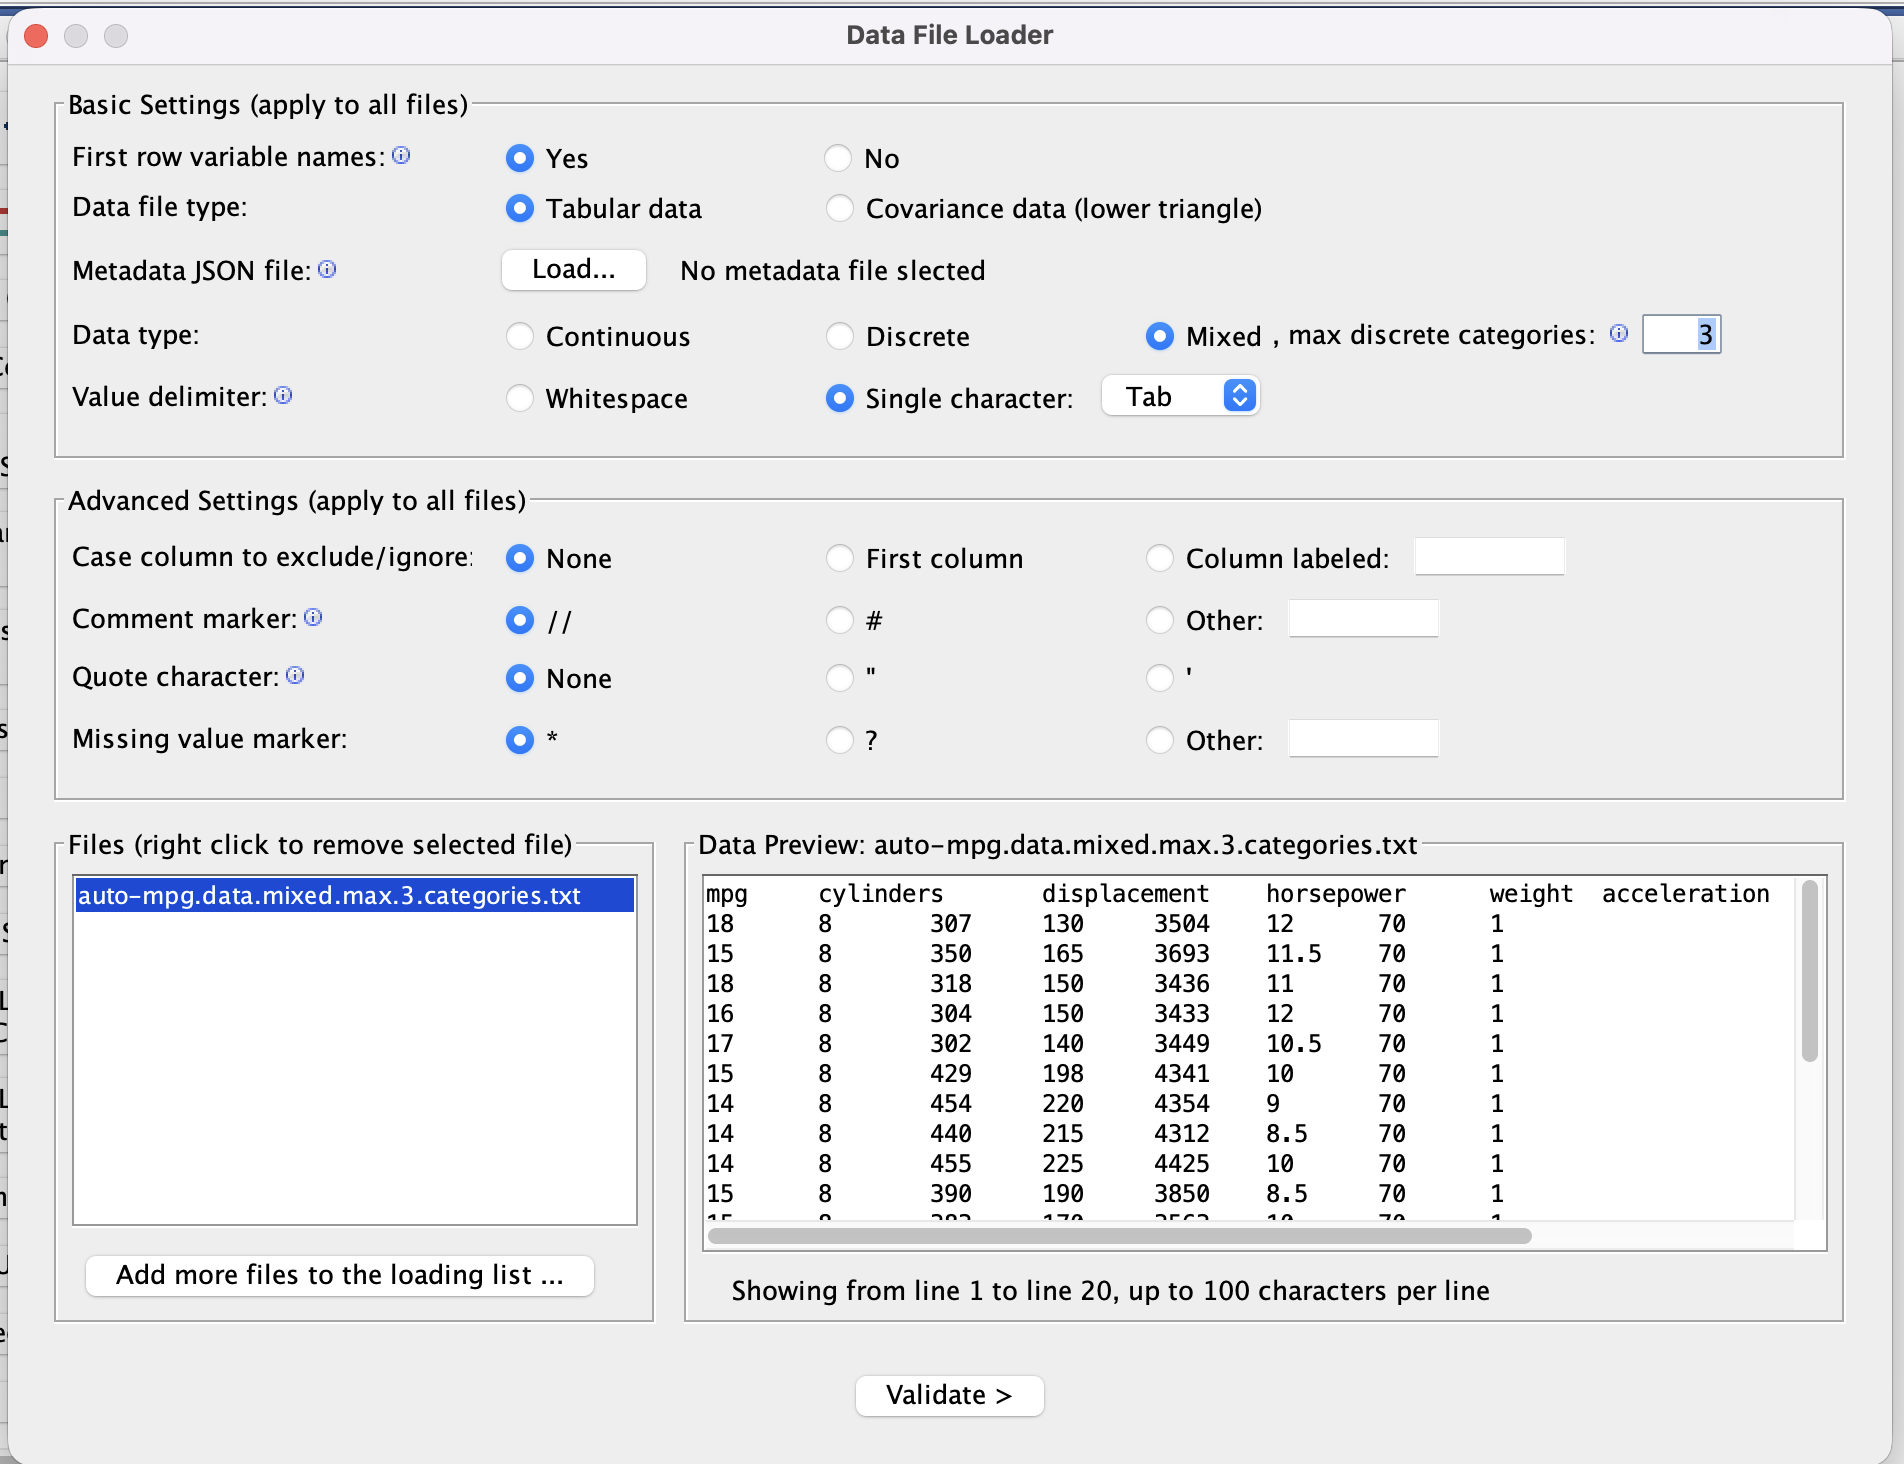
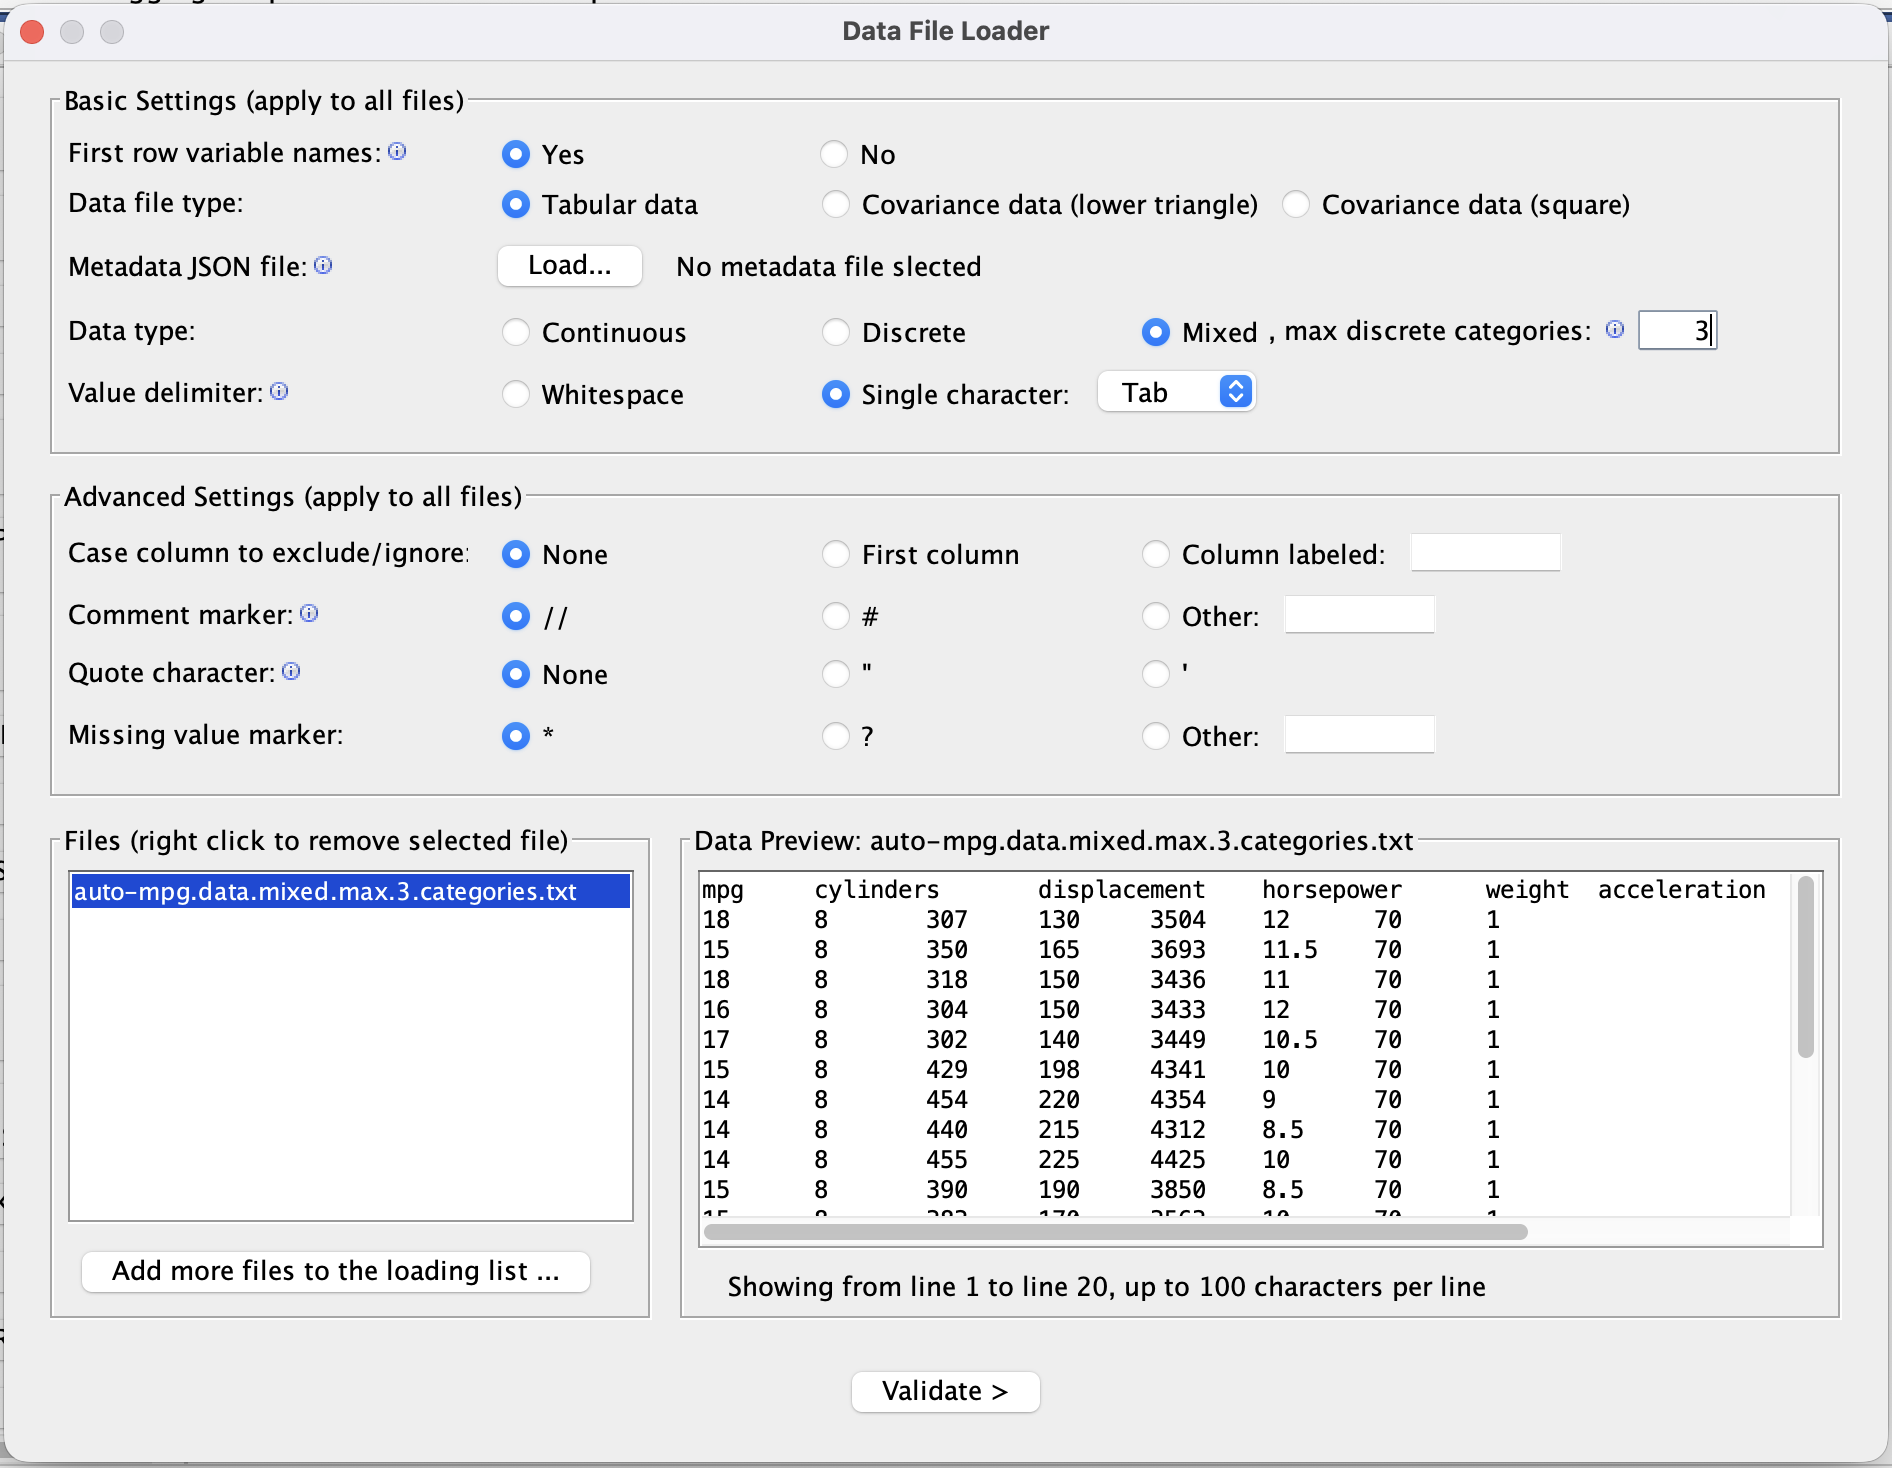
Refine **Data Formats** documentation:
- Add detailed explanation of new **full square matrix** support for covariance and correlation files.
- Retain and clarify **legacy lower-triangular format** usage, including examples and backward compatibility notes.
- Update export behavior to reflect **full square matrix** as the default format.
- Improve formatting, examples, and error handling guidelines for all supported file types.

diff --git a/docs/data.formats.md b/docs/data.formats.md
@@ -12,10 +12,10 @@ The goal is to eliminate common parsing errors and clarify exactly what Tetrad e
 Tetrad supports:
 
 - **Tabular data files** (continuous, discrete, or mixed)
-- **Covariance matrices** (current format: lower-triangular)
-- **Correlation matrices** (same lower-triangular format)
+- **Covariance matrices** (full square or legacy lower-triangular)
+- **Correlation matrices** (full square or legacy lower-triangular)
 
-This page covers the se **data formats**.
+This page covers these **data formats**.
 
 ---
 
@@ -23,13 +23,13 @@ This page covers the se **data formats**.
 
 Tabular datasets must follow this structure:
 
-1. **Header row:** variable names
-2. **One data row per case**
+1. **Header row:** variable names  
+2. **One data row per case**  
 3. **Values separated by tabs, commas, or spaces**
 
 Example:
 
-```
+```text
 X Y Z
 1.2 5.0 3
 0.9 4.8 3
@@ -51,7 +51,7 @@ representing categories.
 
 Example:
 
-```
+```text
 A B C
 0 1 yes
 1 0 no
@@ -64,7 +64,7 @@ A B C
 
 Continuous data uses the same tabular format, but all values should be numeric:
 
-```
+```text
 HEIGHT WEIGHT AGE
 66.1 150.2 33
 70.3 182.4 44
@@ -73,13 +73,17 @@ HEIGHT WEIGHT AGE
 ---
 
 ## 5. Covariance and Correlation Matrices
-(Current Tetrad Format)
 
-Tetrad currently supports **only one** matrix format:
+Tetrad now supports **two equivalent file formats** for covariance and correlation matrices:
 
-> A **lower-triangular matrix**, preceded by a **sample size** line and a **variable-name** line.
+1. A **full square matrix**, preceded by a sample-size line and a variable-name line (current default)  
+2. A **lower-triangular matrix** in the legacy format (still fully supported for backward compatibility)
 
-This format applies to **both covariance and correlation matrices**.
+Both formats use the same header:
+
+1. **Sample size** (integer, on its own line)  
+2. **Variable names** (space-separated or tab-separated)  
+3. **Matrix values** (either full square or lower-triangular)
 
 Any deviation from this structure will cause Tetrad to reject the file.
 
@@ -89,27 +93,32 @@ Any deviation from this structure will cause Tetrad to reject the file.
 
 A valid covariance/correlation file must contain:
 
-1. **Sample size** (integer, on its own line)
-2. **Variable names** (space-separated or tab-separated)
-3. **Lower triangle of the matrix**, written row by row
+1. **Sample size** (integer, on its own line)  
+2. **Variable names** (space-separated or tab-separated)  
+3. **Matrix body**, in one of the two supported shapes:
 
-Matrix layout:
+- **Full square format (current default)**  
+  - Row 1: `p` values  
+  - Row 2: `p` values  
+  - …  
+  - Row *p*: `p` values  
 
-- Row 1: 1 value
-- Row 2: 2 values
-- ...
-- Row *p*: *p* values
+- **Legacy lower-triangular format**  
+  - Row 1: 1 value  
+  - Row 2: 2 values  
+  - …  
+  - Row *p*: *p* values  
 
-The **upper triangle must not appear**.
+Here *p* is the number of variables (the number of names on the header line).
 
 ---
 
-### 5.2 Covariance Matrix Example (Exactly as Tetrad Expects)
+### 5.2 Legacy Covariance Matrix Example (Lower Triangle)
 
-Below is a complete, valid covariance file.  
-This is the example that users often find confusing, so it is given *in full*.
+Below is a complete, valid **lower-triangular** covariance file.  
+This is the classic example that has been used by Tetrad historically.
 
-```
+```text
 164
 ABILITY GPQ PREPROD QFJ SEX CITES PUBS
 1.0
@@ -121,26 +130,65 @@ ABILITY GPQ PREPROD QFJ SEX CITES PUBS
  .18 .15 .19 .41 .43 .55 1.0
 ```
 
-#### Important Characteristics of This Format
+#### Important Characteristics of the Legacy Format
 
-- **Line 1:** sample size (`164`)
-- **Line 2:** variable names
-- **Lines 3–9:** lower triangle of the covariance matrix
-- Whitespace before numbers is acceptable
-- Diagonal entries must be included (`1.0` above)
-- No commas (`1,0` is invalid)
-- No extra blank lines at the end
-- Dimensionality must match the number of variables
+- **Line 1:** sample size (`164`)  
+- **Line 2:** variable names (7 variables)  
+- **Lines 3–9:** lower triangle of the covariance matrix  
+- Whitespace before numbers is acceptable  
+- Diagonal entries must be included (`1.0` above)  
+- No commas (`1,0` is invalid)  
+- No extra blank lines at the end  
+- The number of rows in the lower triangle must equal the number of variables  
+
+This format is still accepted for both covariance and correlation matrices.
 
 ---
 
-### 5.3 Correlation Matrices
+### 5.3 Full Square Covariance Matrix Example (Current Default)
 
-Correlation matrices use **the same format**.
+When a covariance matrix is **exported from Tetrad**, it is now written in full square format.  
+The same example as above, written as a full `7 × 7` matrix:
 
-Example:
-
+```text
+164
+ABILITY GPQ PREPROD QFJ SEX CITES PUBS
+1.00   0.62  0.25  0.16 -0.10  0.29  0.18
+0.62   1.00  0.09  0.28  0.00  0.25  0.15
+0.25   0.09  1.00  0.07  0.03  0.34  0.19
+0.16   0.28  0.07  1.00  0.10  0.37  0.41
+-0.10  0.00  0.03  0.10  1.00  0.13  0.43
+0.29   0.25  0.34  0.37  0.13  1.00  0.55
+0.18   0.15  0.19  0.41  0.43  0.55  1.00
 ```
+
+You may use tabs, spaces, or the chosen delimiter; the key requirement is that:
+
+- The matrix is **square**, with exactly *p* values on each of *p* lines,  
+- The order of variables matches the header line.
+
+---
+
+### 5.4 Correlation Matrices
+
+Correlation matrices use **the same two formats** as covariance matrices:
+
+- Full square matrix (current export default)  
+- Legacy lower triangle (still accepted)
+
+Example (full square):
+
+```text
+500
+X Y Z
+1.0  0.20 -0.10
+0.20 1.0   0.35
+-0.10 0.35 1.0
+```
+
+Legacy lower-triangular example:
+
+```text
 500
 X Y Z
 1.0
@@ -150,33 +198,44 @@ X Y Z
 
 ---
 
-### 5.4 Common Parsing Errors for Covariance/Correlation Files
+### 5.5 Common Parsing Errors for Covariance/Correlation Files
 
 Users often encounter:
 
-- **Full square matrix instead of lower triangle**
 - **Missing sample size** (first line must be an integer)
-- **Incorrect number of entries per row**
-- **Variable names not matching matrix dimension**
+- **Variable names not matching matrix dimensions**  
+  - For square format: not exactly *p* values per row, or not exactly *p* rows  
+  - For lower-triangular format: wrong number of values in a given row
+- **Mixing square and triangular conventions** in a single file
 - **Trailing blank lines**
-- **Use of commas** instead of decimals
-- **Rows not aligned in lower-triangle shape**
+- **Use of commas** instead of decimal points
+- **Extra text or comments in the matrix region**
 
 Each of these produces a **“Could not parse covariance matrix”** error.
 
 ---
 
-## 6. Planned Future Support (Not Yet Available)
+## 6. Legacy Lower-Triangular Format
 
-Tetrad will soon support **full square covariance/correlation matrices**.  
-The planned behavior:
+The lower-triangular matrix format is kept as a **legacy** option:
 
-- Users may supply either a *full square matrix* or a *lower triangle*.
-- If a full matrix is provided, the **upper triangle will be ignored**  
-  (the lower triangle will be used).
-- Backward compatibility with the current format will be preserved.
+- All existing covariance and correlation files using the old lower-triangular convention  
+  will continue to load without modification.
+- New users are encouraged to use the **square format**, which aligns with conventions in R and Python.
+- Internally, Tetrad treats both formats as representing the same symmetric matrix.
 
-This feature is not yet available but is in development.
+There is no need to convert existing lower-triangular files unless you prefer the square style.
+
+---
+
+### 6.1 Note on GUI Display
+
+In the Tetrad GUI, covariance and correlation matrices are **currently displayed using only the lower triangle**, even if they were loaded from a full square matrix file. This is purely a **display choice**:
+
+- The matrix is still treated as a full symmetric covariance/correlation matrix internally.
+- Only the lower triangle is shown to reduce redundancy and to emphasize that the object is a covariance or correlation matrix.
+
+This behavior is independent of whether the file itself was in square or lower-triangular format.
 
 ---
 
@@ -184,21 +243,28 @@ This feature is not yet available but is in development.
 
 Tetrad can export:
 
-- Tabular datasets
-- Covariance matrices (in the same lower-triangle format)
-- Correlation matrices
+- Tabular datasets  
+- Covariance matrices  
+- Correlation matrices  
 
-Exported covariance and correlation will **always** be in the lower-triangular format until  
-the square-matrix feature is implemented.
+Export behavior:
+
+- Covariance and correlation matrices are now exported in **full square format** by default.  
+- The legacy **lower-triangular** format is **no longer used for export**, but is still supported for import.
+
+This means:
+
+- You can load either full square or lower-triangular files.  
+- When you save from Tetrad, you will get the square form.
 
 ---
 
 ## 8. Summary
 
-| Format Type | Supported? | Notes                                   |
-|-------------|------------|-----------------------------------------|
-| Tabular data | ✔ | Standard space/tab/comma-separated file |
-| Covariance matrix (lower triangle) | ✔ | Current required format                 |
-| Correlation matrix (lower triangle) | ✔ | Same format as covariance               |
-| Full covariance/correlation square matrix | ❌ (not yet) | Will be supported soon                  |
-| Graph formats | ✔ | See graph file section                  |
+| Format Type                               | Supported? | Notes                                                       |
+|-------------------------------------------|------------|-------------------------------------------------------------|
+| Tabular data                              | ✔          | Standard space/tab/comma-separated file                     |
+| Covariance matrix (lower triangle)        | ✔ (legacy) | Fully supported for backward compatibility                  |
+| Correlation matrix (lower triangle)       | ✔ (legacy) | Same legacy format as covariance                            |
+| Full covariance/correlation square matrix | ✔          | Current default import/export format                        |
+| Graph formats                             | ✔          | See graph file section                                      |
